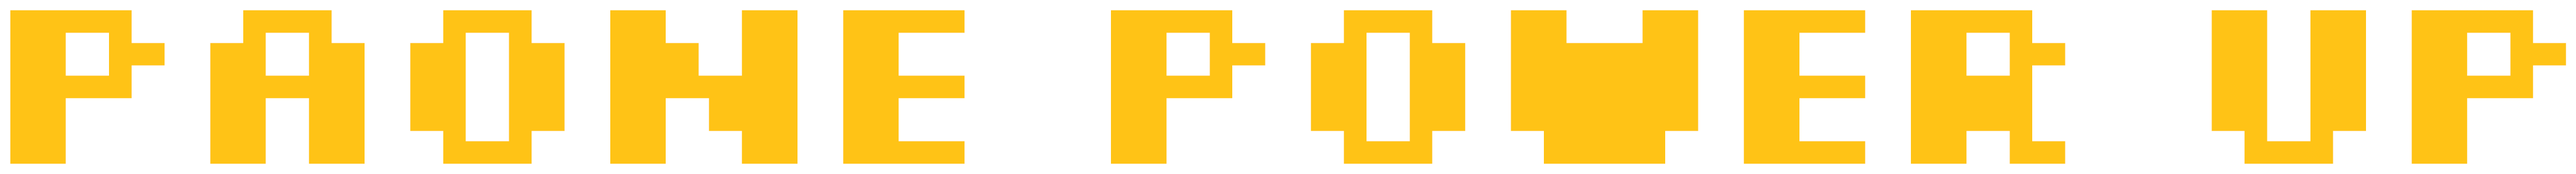
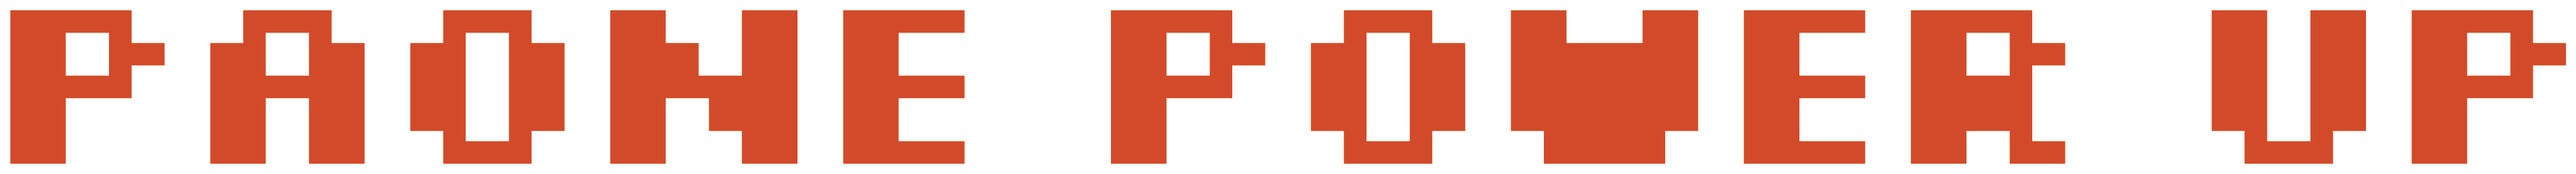
README update and Mines color scheme

diff --git a/styling.css b/styling.css
@@ -6,11 +6,14 @@ body {
     padding: 0;
     margin: 0;
 }
+header {
+    text-align: center;
+}
 header h1 {
-    text-shadow: 2px 2px 5px #1e90ff;
+    text-shadow: 2px 2px 5px #D2492A;
 }
 .pulse {
-    background-color: #833471 !important;
+    background-color: #21314D !important;
 }
 #wrapper {
     margin: 0;
@@ -30,6 +33,9 @@ header h1 {
 }
 .side h2 {
     margin-top: 0;
+}
+.attr {
+    font-style: italic;
 }
 #main {
     text-align: center;
@@ -57,8 +63,8 @@ header h1 {
     width: 500px;
     height: 300px;
     left: calc(50vw - 250px);
-    top: calc(40vh - 150px);
-    background-color: #2f3542;
+    top: calc(45vh - 150px);
+    background-color: #21314D;
     color: #ffffff;
     padding: 20px;
     box-sizing: border-box;
@@ -68,10 +74,10 @@ header h1 {
 	display: none;
 	position: absolute;
     width: 500px;
-    height: 300px;
+    height: auto;
     left: calc(50vw - 250px);
     top: calc(50vh - 150px);
-    background-color: #2f3542;
+    background-color: #21314D;
     color: #ffffff;
     padding: 20px;
     box-sizing: border-box;
@@ -80,9 +86,10 @@ header h1 {
 #reload {
     display: inline-block;
     margin: auto;
-    background-color: #1e90ff;
+    background-color: #D2492A;
     padding: 10px;
     cursor: pointer;
+    margin-bottom: 20px;
 }
 .directions {
     text-align: left;

diff --git a/index.html b/index.html
@@ -21,9 +21,10 @@
             </header>
             <article id="main">
                 <canvas id="game"></canvas>
-            </article>
-            <aside class="side">
-                <div>
+            </article>                
+        </section>
+        <footer class="side">
+            <div>
                     <h2>
                         How to Play
                     </h2>
@@ -33,6 +34,7 @@
                         <li>Hitting obstacles will result in a loss, but try and catch the mighty Paone Power Up!</li>
                         <li>Try and get as far as you can!</li>
                     </ul>
+                    <h6 class="attr">By Alex Pollock, Eric Klatzco, &amp; Grant Marsh</h6>
                 </div>
                 <div>
                     <h2>
@@ -73,8 +75,6 @@
                 <p>Refresh the page to play again</p>
                 <div id="reload">Play Again!</div>
             </div>
-        </section>
-        <footer>
         </footer>
 		<script src="./HighscoreAPI.js"></script>
         <script src="./game.js"></script>

diff --git a/game.js b/game.js
@@ -95,7 +95,7 @@ function getRandY(img_height) {
 }
 
 function getRandX(){
-    return canvas.width + Math.random() * canvas.width;
+    return canvas.width + Math.random() * canvas.width / 2;
 }
 
 function drawHero() {

diff --git a/highscore.css b/highscore.css
@@ -18,7 +18,7 @@
 }
 
 #highdiv{
-    background-color: #1a6ecc;
+    background-color: #D2492A;
     width:100%;
     margin:auto;
     border-radius: 16px;

diff --git a/README.md b/README.md
@@ -4,26 +4,24 @@
 
 #### Why We Deserve 100 Points ####
 
-	We deserve 100 points becasue we successfully made an exciting and addictive game using HTML5 CSS3 and Javascript. We used a visually appealing color layout, a simple to comprehend page layout and provided all necessary information to the player.
+	Our simple, yet exciting and addictive game was made with HTML5, CSS3, and Javascript. We used a visually appealing color layout, a straightforward page layout, and provided all necessary information to the player. Our efforts to make our game more dynamic and engaging went above and beyond the base requirements. Such efforts were: animating our hero sprite, adding in doulbe jumping, and continuously updating the live score. We thoroughly thought out our game experience from reading the directions, to easily giving the player the option to easily play again--and everything in between. Moreover our Mines Learning Tools theme, while it meant incorporating custom graphics into our game, was an additional effort that makes the game more entertaining and addictive to its target demographic.  
 
 #### CSS3 Features Used ####
 
-	We used an image boarder aroung the game window (with the mines logo) and gave the gameplay area a fixed size on the screen, as to avoud weird sizing on the character and the obstacles. 
+	1. We used an image of the Mines' relreuleaux as a boarder aroung the game window. This extends our theme outside of the game itself and into the site, making a seamless gaming experience. 
 
-	We stlyed the webpage to use similar colors as seen on mines webpages since we used the mines logo as a border and the infamous "Paone Power-Up".
+	2. We used text shadowing on the title with the site's color theme to draw attention to our game's title. 
 
-	Also, We used text shadowing on the title with an apropriate color in proportion to the web page.
-
-	We also change the colors on the page whenever a Paone Power-Up is activated within our JS file.
+	3. We also used CSS transitions to ease in and out the background color change when the player collects the Paone Power Up. This transition is controlled by the CSS in the #main id, but the event is triggered by a collision event in the JavaScript.
 
 ## JavaScript Libraries ##
 
-	We used jQuery and the advised HighScoreAPI in conjunction with basic JS.
+	We used jQuery and the HighScoreAPI in conjunction with basic JS.
 
 ## JavaScript Difficulties ##
 
-	We had difficulty detecting a collision with an obstacle. Since obstacles and character images are drawn from point (0,0), we had to identify the size of the boxes and the size of the sprite and determine what would constitute as a collision based off of those calculations. 
+	We had difficulty detecting a collision with an obstacle. Since obstacles and character images are drawn from point (0,0), we had to identify the size of the boxes and the size of the sprite and determine what would constitute as a collision based off of an overlap, range-based calculation. 
 
-	More difficulty arose using the animated sprite, which allowed for us to have a more visually appealing game at the cost of ease of implementation. The sprite was difficult to animate because we had to make the animation happen at a rate proportional to the game. 
+	More difficulty arose using the animated sprite, which allowed for us to have a more visually appealing game at the cost of ease of implementation. The sprite was difficult to animate because we had to make the running animation happen at a rate proportional to the game. We also had to figure out how to make the ducking animation fluid with our character, which resulted in having to create more custom sprites rather than just "squishing" the image when the player ducked.
 
-	Lastly, we had to figure out how to make the ducking animation fluid with our character, so we had to delay our animation time as to not simply reprint the character whenever the duck action is performed.
+	The final challenge we faced was getting the canvas to draw images at the proper resolution. Thankfully, we found a Stack Overflow question that helped us explicitly set the canvas width, height, and resolution in JavaScript, resulting in images that were not pixilated. Originally we were just using these values that were set in the CSS, which was easier, but resulted in a less aesthetically pleasing look for the game. 
